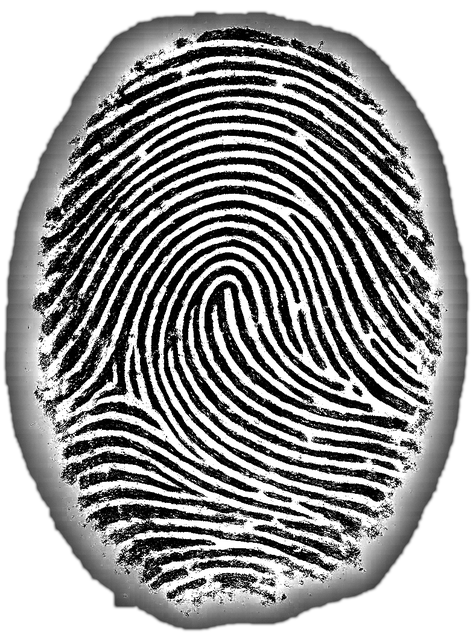
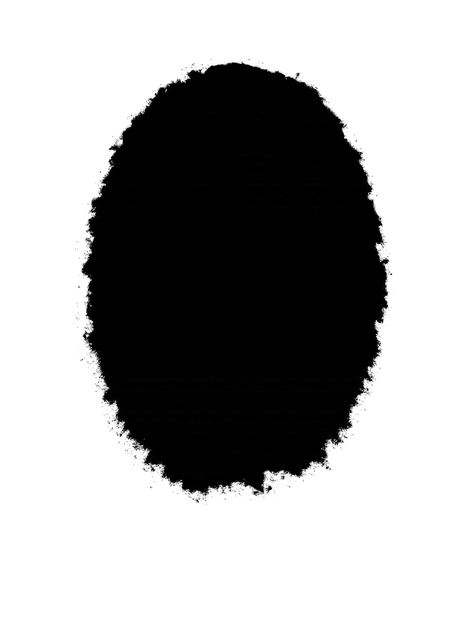
保留指紋透明背景並允許超出按鈕

diff --git a/index.html b/index.html
@@ -127,7 +127,7 @@
 
         .quiz-option {
             position: relative;
-            overflow: hidden;
+            overflow: visible;
             isolation: isolate;
             min-height: 76px;
             border: 1px solid rgba(67, 55, 42, 0.38);
@@ -149,6 +149,7 @@
         }
 
         .quiz-option.is-selected {
+            z-index: 10;
             border-color: #77716a;
             background: #b9b4ad;
             color: #29251f;